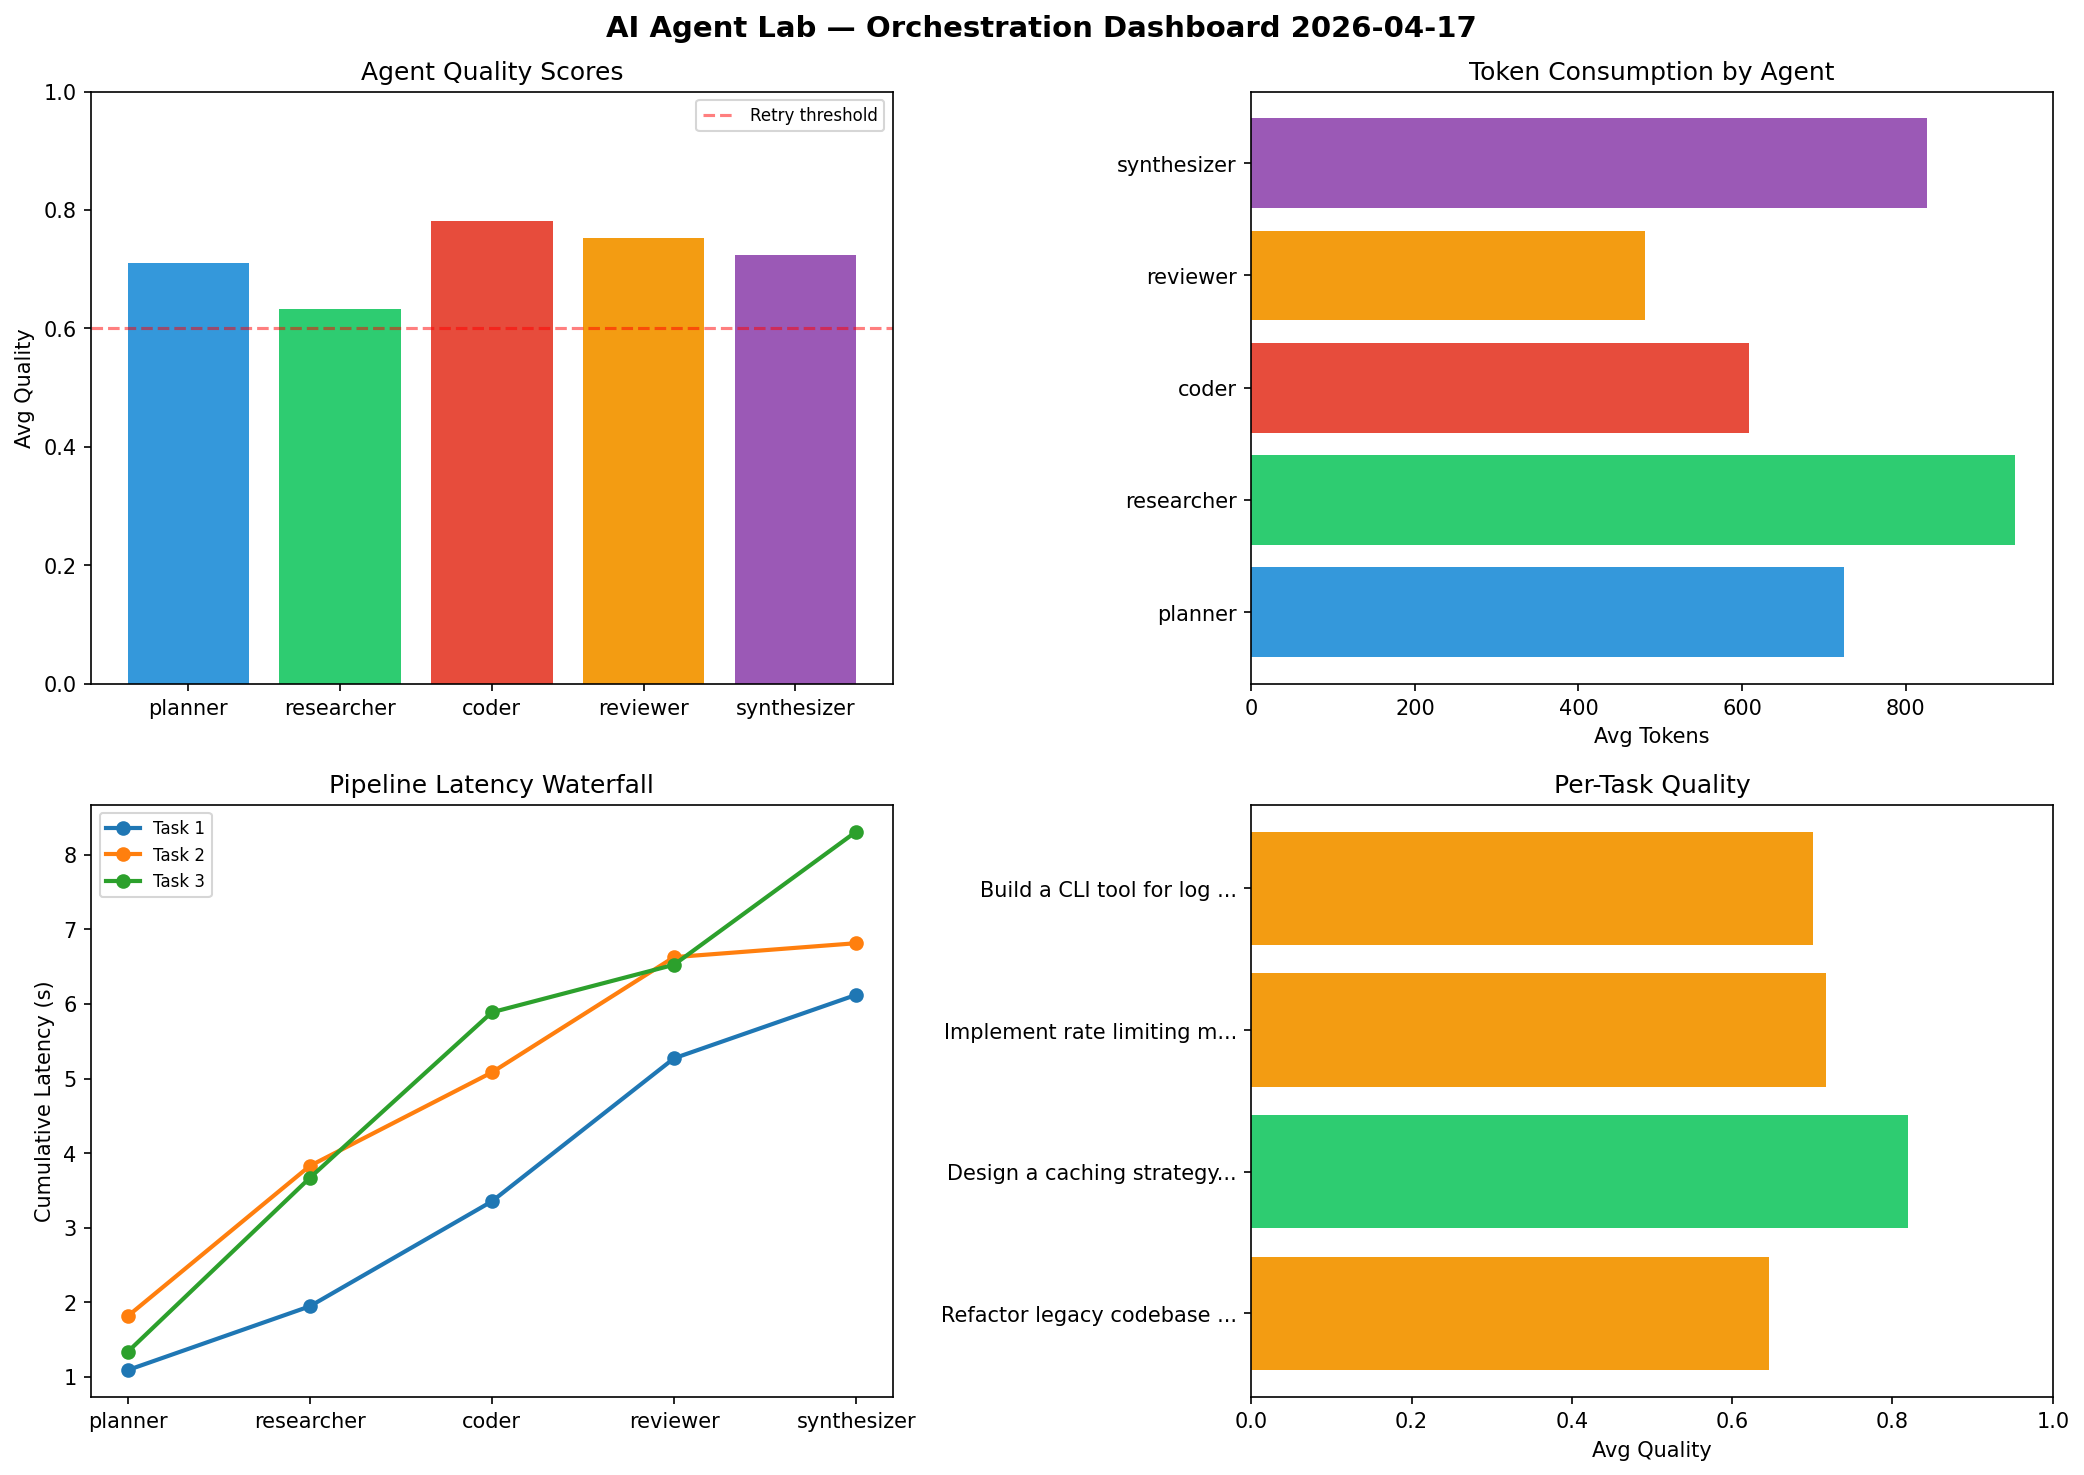
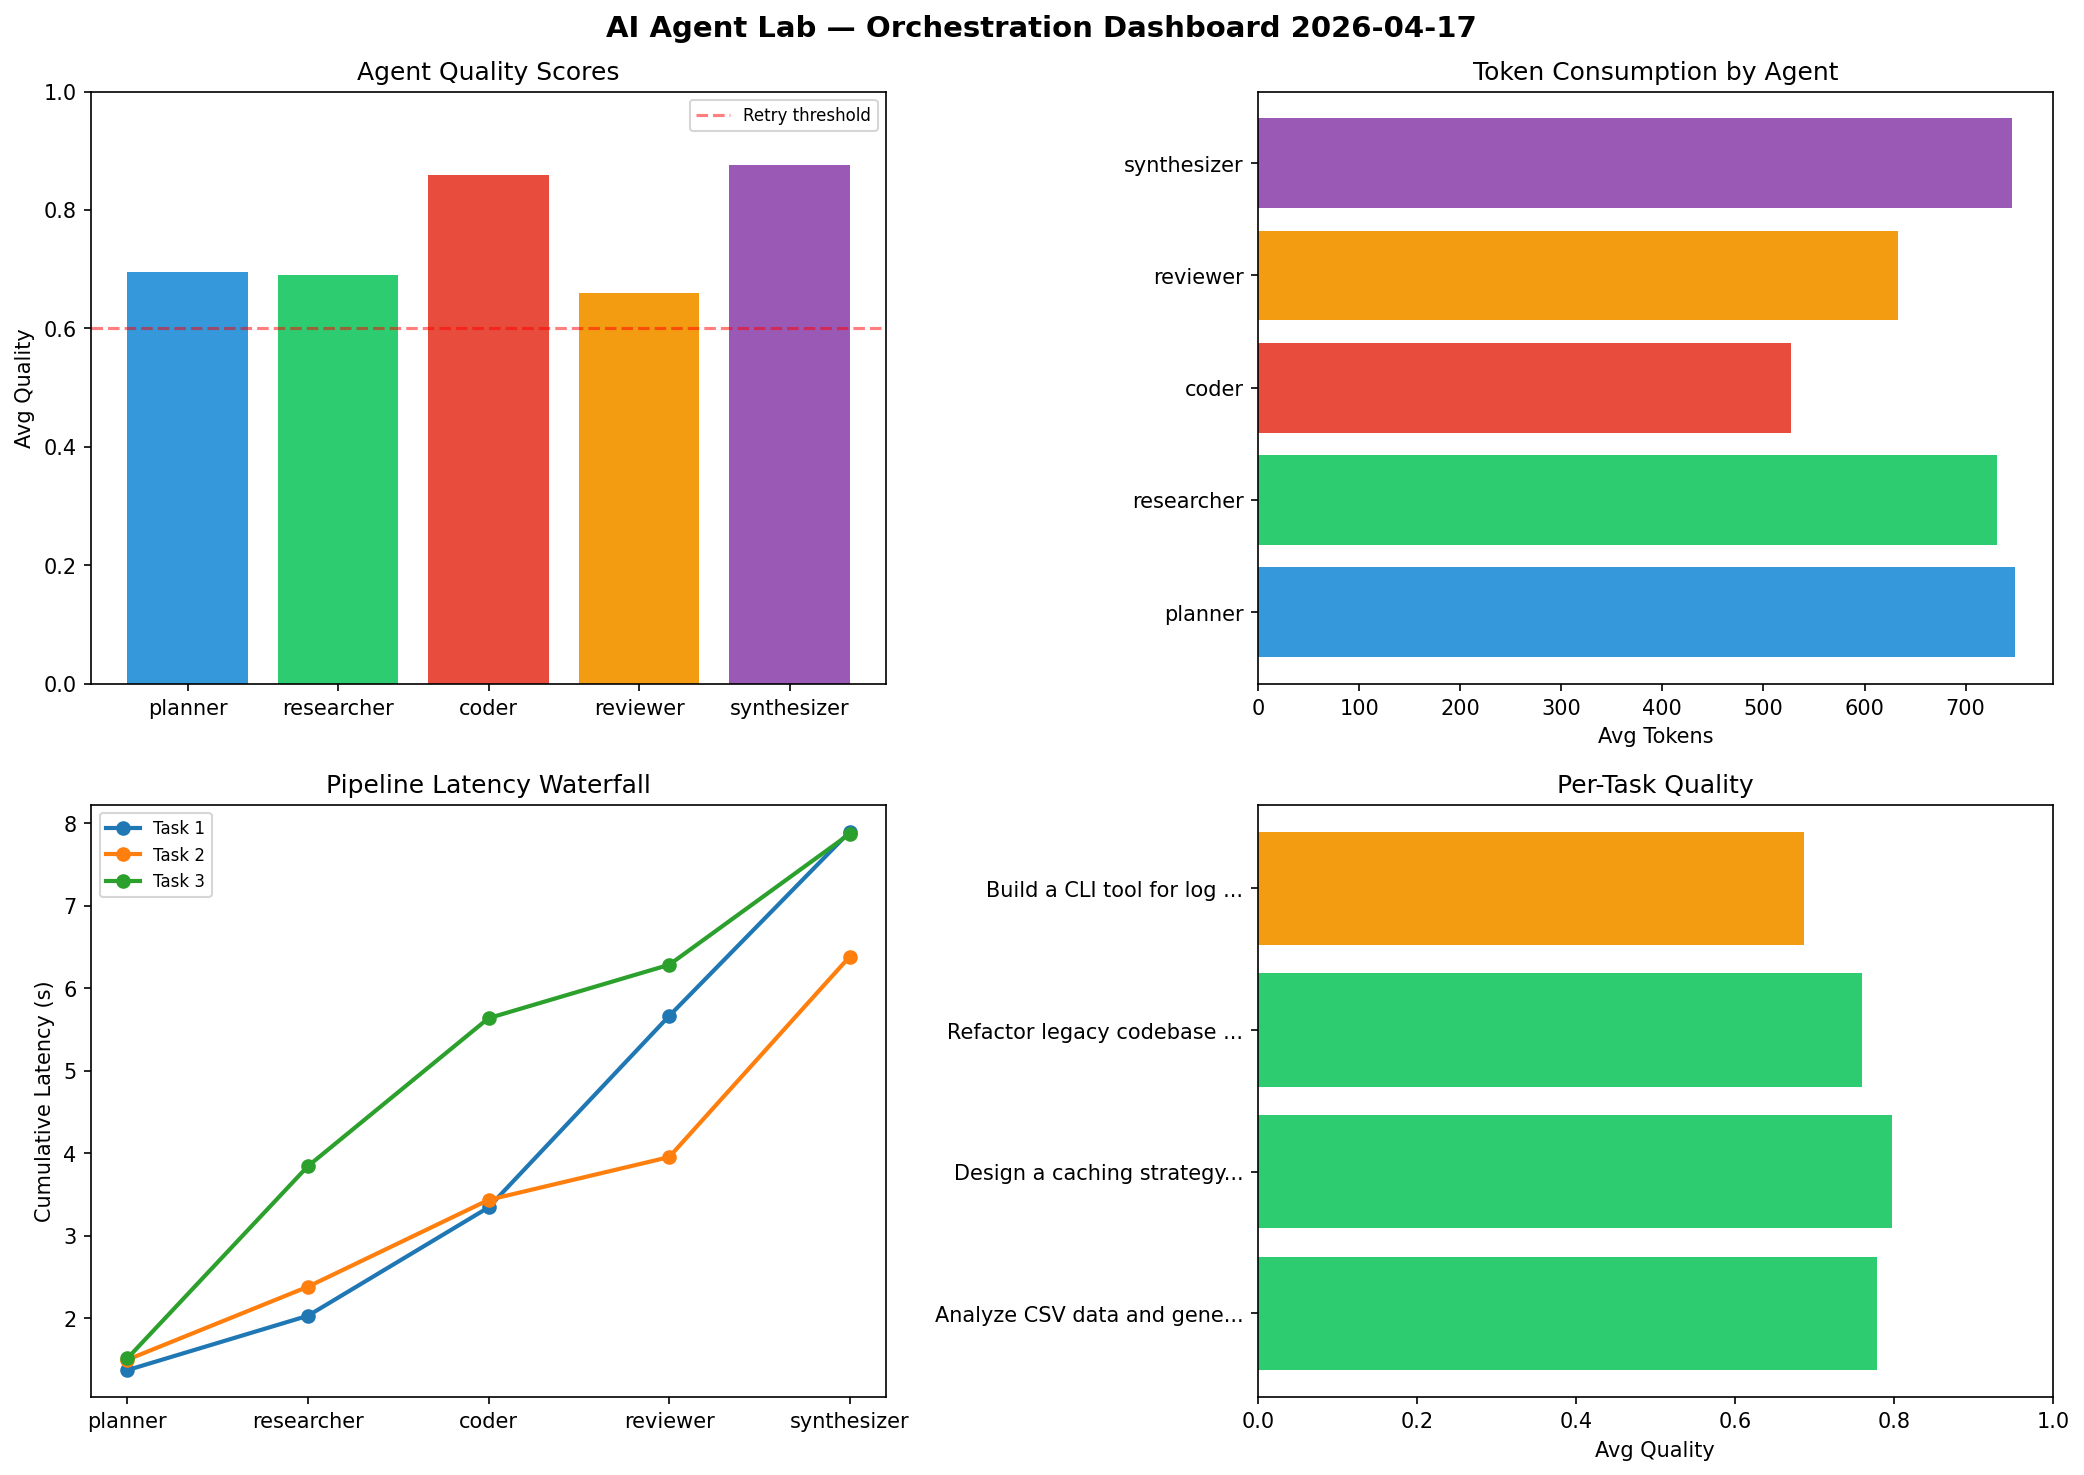
ai-agent-lab: orchestration run 2026-04-17T21:06

diff --git a/logs/2026-04-17.md b/logs/2026-04-17.md
@@ -1,6 +1,6 @@
 # AI Agent Lab — Orchestration Report 2026-04-17
 
-**Run ID:** `07e8773347` | **Tasks:** 4 | **Avg Quality:** 0.721
+**Run ID:** `359979ada3` | **Tasks:** 4 | **Avg Quality:** 0.756
 
 ![Dashboard](2026-04-17_dashboard.png)
 
@@ -8,52 +8,52 @@
 
 | Metric | Value |
 |--------|-------|
-| avg_latency | 6.899 |
-| total_tokens | 14298 |
-| avg_quality | 0.721 |
+| avg_latency | 7.718 |
+| total_tokens | 13546 |
+| avg_quality | 0.756 |
 
 ## Delta vs Yesterday
 
 | Metric | Today | Yesterday | Change |
 |--------|-------|-----------|--------|
-| avg_latency | 6.899 | 6.76 | 📈 2.1% |
-| total_tokens | 14298 | 15890 | 📉 -10.0% |
-| avg_quality | 0.721 | 0.755 | 📉 -4.5% |
+| avg_latency | 7.718 | 6.76 | 📈 14.2% |
+| total_tokens | 13546 | 15890 | 📉 -14.8% |
+| avg_quality | 0.756 | 0.755 | 📈 0.1% |
 
 ## Pipeline Results
 
-### Refactor legacy codebase to use dependency injection
+### Analyze CSV data and generate statistical summary
 | Agent | Quality | Latency | Tokens | Status |
 |-------|---------|---------|--------|--------|
-| planner | 0.695 | 1.088s | 960 | success |
-| researcher | 0.737 | 0.856s | 1043 | success |
-| coder | 0.599 | 1.408s | 636 | needs_retry |
-| reviewer | 0.63 | 1.919s | 410 | success |
-| synthesizer | 0.57 | 0.851s | 777 | needs_retry |
+| planner | 0.724 | 1.372s | 707 | success |
+| researcher | 0.62 | 0.659s | 753 | success |
+| coder | 0.789 | 1.313s | 508 | success |
+| reviewer | 0.778 | 2.32s | 361 | success |
+| synthesizer | 0.986 | 2.233s | 750 | success |
 
 ### Design a caching strategy for high-traffic endpoints
 | Agent | Quality | Latency | Tokens | Status |
 |-------|---------|---------|--------|--------|
-| planner | 0.957 | 1.811s | 715 | success |
-| researcher | 0.602 | 2.016s | 502 | success |
-| coder | 0.909 | 1.255s | 657 | success |
-| reviewer | 0.675 | 1.546s | 381 | success |
-| synthesizer | 0.951 | 0.187s | 940 | success |
+| planner | 0.806 | 1.498s | 863 | success |
+| researcher | 0.624 | 0.885s | 563 | success |
+| coder | 0.929 | 1.052s | 371 | success |
+| reviewer | 0.675 | 0.519s | 588 | success |
+| synthesizer | 0.957 | 2.43s | 731 | success |
 
-### Implement rate limiting middleware
+### Refactor legacy codebase to use dependency injection
 | Agent | Quality | Latency | Tokens | Status |
 |-------|---------|---------|--------|--------|
-| planner | 0.523 | 1.332s | 809 | needs_retry |
-| researcher | 0.529 | 2.334s | 936 | needs_retry |
-| coder | 0.782 | 2.222s | 421 | success |
-| reviewer | 0.935 | 0.638s | 496 | success |
-| synthesizer | 0.815 | 1.785s | 475 | success |
+| planner | 0.602 | 1.514s | 1039 | success |
+| researcher | 0.881 | 2.33s | 802 | success |
+| coder | 0.789 | 1.793s | 724 | success |
+| reviewer | 0.541 | 0.647s | 873 | needs_retry |
+| synthesizer | 0.989 | 1.588s | 549 | success |
 
 ### Build a CLI tool for log analysis
 | Agent | Quality | Latency | Tokens | Status |
 |-------|---------|---------|--------|--------|
-| planner | 0.67 | 1.739s | 415 | success |
-| researcher | 0.665 | 0.42s | 1252 | success |
-| coder | 0.836 | 2.377s | 721 | success |
-| reviewer | 0.774 | 0.716s | 640 | success |
-| synthesizer | 0.559 | 1.096s | 1112 | needs_retry |
+| planner | 0.649 | 2.061s | 386 | success |
+| researcher | 0.637 | 1.218s | 808 | success |
+| coder | 0.929 | 2.347s | 506 | success |
+| reviewer | 0.644 | 1.898s | 711 | success |
+| synthesizer | 0.574 | 1.196s | 953 | needs_retry |
